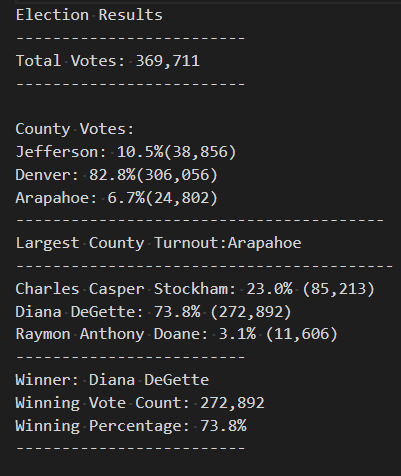
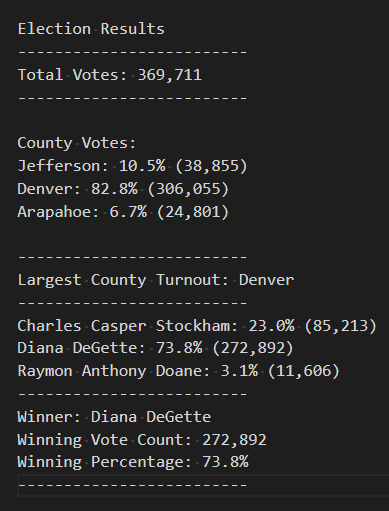
File added

diff --git a/Practice_Starter.py b/Practice_Starter.py
@@ -6,7 +6,7 @@ import csv
 import os
 
 # Add a variable to load a file from a path.
-file_to_load = os.path.join( "Resources", "election_results.csv")
+file_to_load = os.path.join("Resources", "election_results.csv")
 # Add a variable to save the file to a path.
 file_to_save = os.path.join("analysis", "election_analysis.txt")
 
@@ -18,9 +18,8 @@ candidate_options = []
 candidate_votes = {}
 
 # 1: Create a county list and county votes dictionary.
-county_options=[]
-county_votes={}
-
+county_options = []
+county_votes = {}
 
 # Track the winning candidate, vote count and percentage
 winning_candidate = ""
@@ -28,10 +27,10 @@ winning_count = 0
 winning_percentage = 0
 
 # 2: Track the largest county and county voter turnout.
+winning_county = ""
+winning_county_count = 0
+winning_county_percentage = 0
 
-winning_county=""
-winning_county_count=0
-winning_county_percentage=0
 
 # Read the csv and convert it into a list of dictionaries
 with open(file_to_load) as election_data:
@@ -68,18 +67,20 @@ with open(file_to_load) as election_data:
         # 4a: Write an if statement that checks that the
         # county does not match any existing county in the county list.
         if county_name not in county_options:
-            
+
             # 4b: Add the existing county to the list of counties.
             county_options.append(county_name)
 
+
             # 4c: Begin tracking the county's vote count.
-            county_votes[county_name] =0
+            county_votes[county_name] = 0
 
         # 5: Add a vote to that county's vote count.
-        county_votes[county_name]+=1
+        county_votes[county_name] += 1
+
 
 # Save the results to our text file.
-with open("Analysis/election_results.txt", "w") as txt_file:
+with open(file_to_save, "w") as txt_file:
 
     # Print the final vote count (to terminal)
     election_results = (
@@ -96,31 +97,33 @@ with open("Analysis/election_results.txt", "w") as txt_file:
     for county_name in county_votes:
 
         # 6b: Retrieve the county vote count.
-        votes=county_votes[county_name]
+        votes = county_votes[county_name]
 
         # 6c: Calculate the percentage of votes for the county.
-        county_votes_percentage = float(votes)/float (total_votes)*100
+        vote_percentage = float(votes) / float(total_votes) * 100
+
 
         # 6d: Print the county results to the terminal.
-        county_results=(f'{county_name}: {county_votes_percentage:.1f}%({votes:,})\n') 
+        county_results = (
+            f"{county_name}: {vote_percentage:.1f}% ({votes:,})\n")
         print(county_results)
 
-         # 6e: Save the county votes to a text file.
+        # 6e: Save the county votes to a text file.
         txt_file.write(county_results)
-        
-         # 6f: Write an if statement to determine the winning county and get its vote count.
-        if(votes > winning_county_count) and (county_votes_percentage > winning_county_percentage):
+
+        # 6f: Write an if statement to determine the winning county and get its vote count.
+        if (votes > winning_county_count) and (vote_percentage > winning_county_percentage):
+
             winning_county_count = votes
             winning_county = county_name
-            winning_county_percentag = county_votes_percentage
+            winning_county_percentage = vote_percentage
 
     # 7: Print the county with the largest turnout to the terminal.
 
-    #print(f"{candidate_name}:received {votes_percentage:.1f}({votes:,})\n")
-    largest_county_turnout=(
-        f'----------------------------------------\n'
-        f'Largest County Turnout:{winning_county}\n'
-        f'-----------------------------------------\n')
+    largest_county_turnout = (
+        f"\n-------------------------\n"
+        f"Largest County Turnout: {winning_county}\n"
+        f"-------------------------\n")
     print(largest_county_turnout)
 
 
@@ -128,7 +131,6 @@ with open("Analysis/election_results.txt", "w") as txt_file:
     txt_file.write(largest_county_turnout)
 
     # Save the final candidate vote count to the text file.
-
     for candidate_name in candidate_votes:
 
         # Retrieve vote count and percentage
